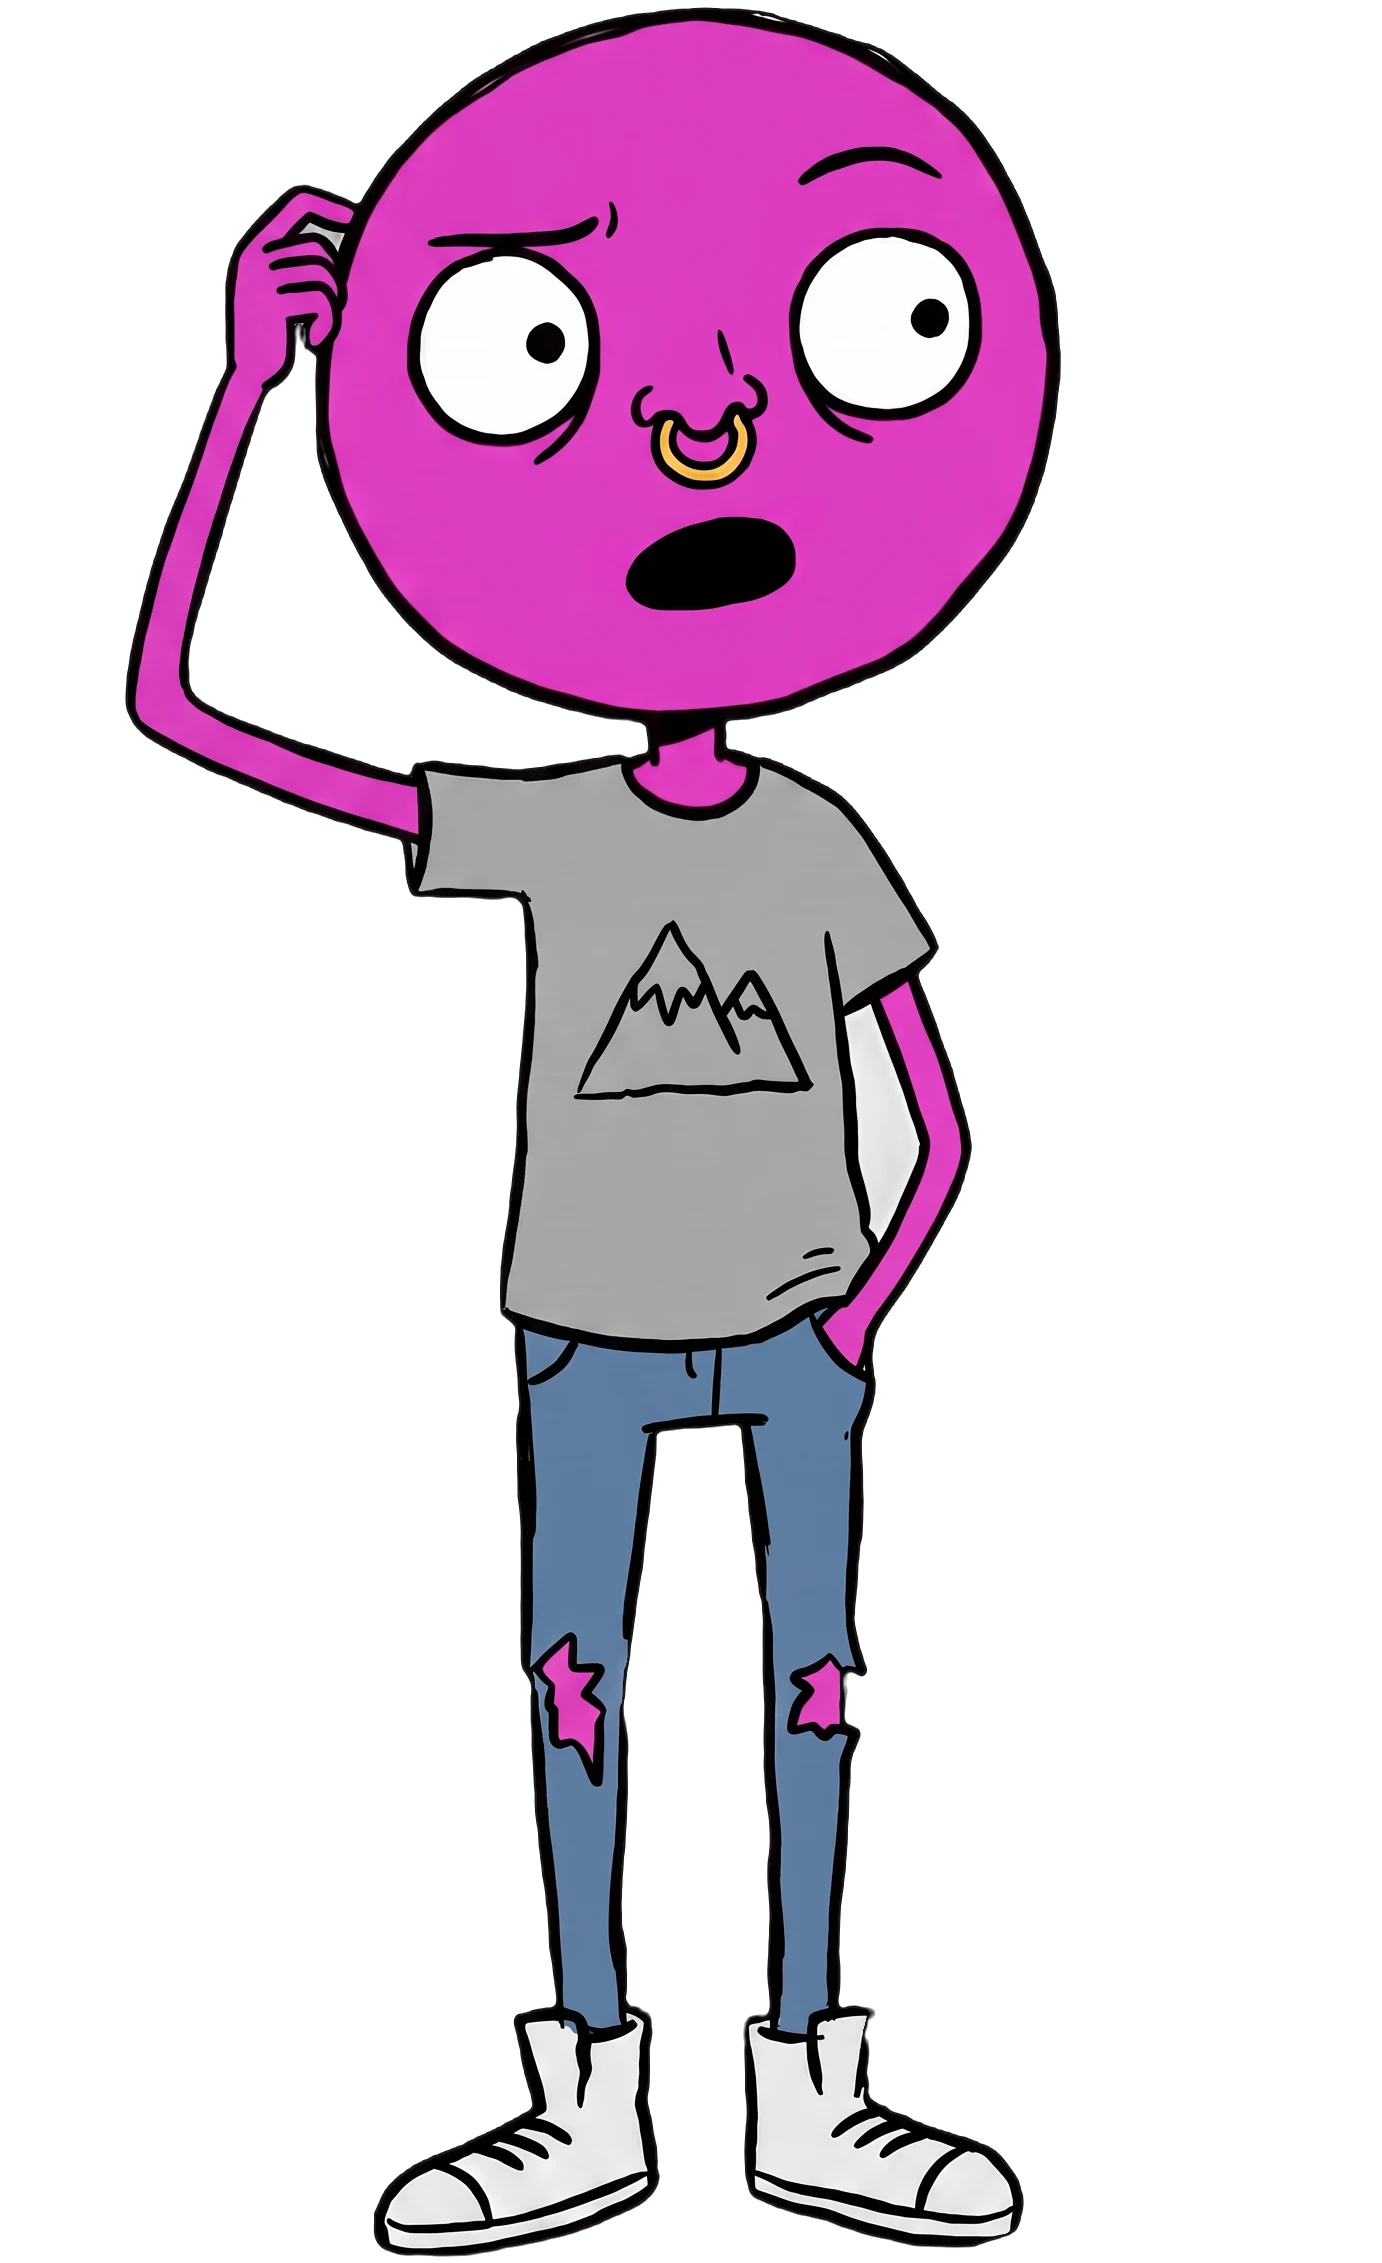
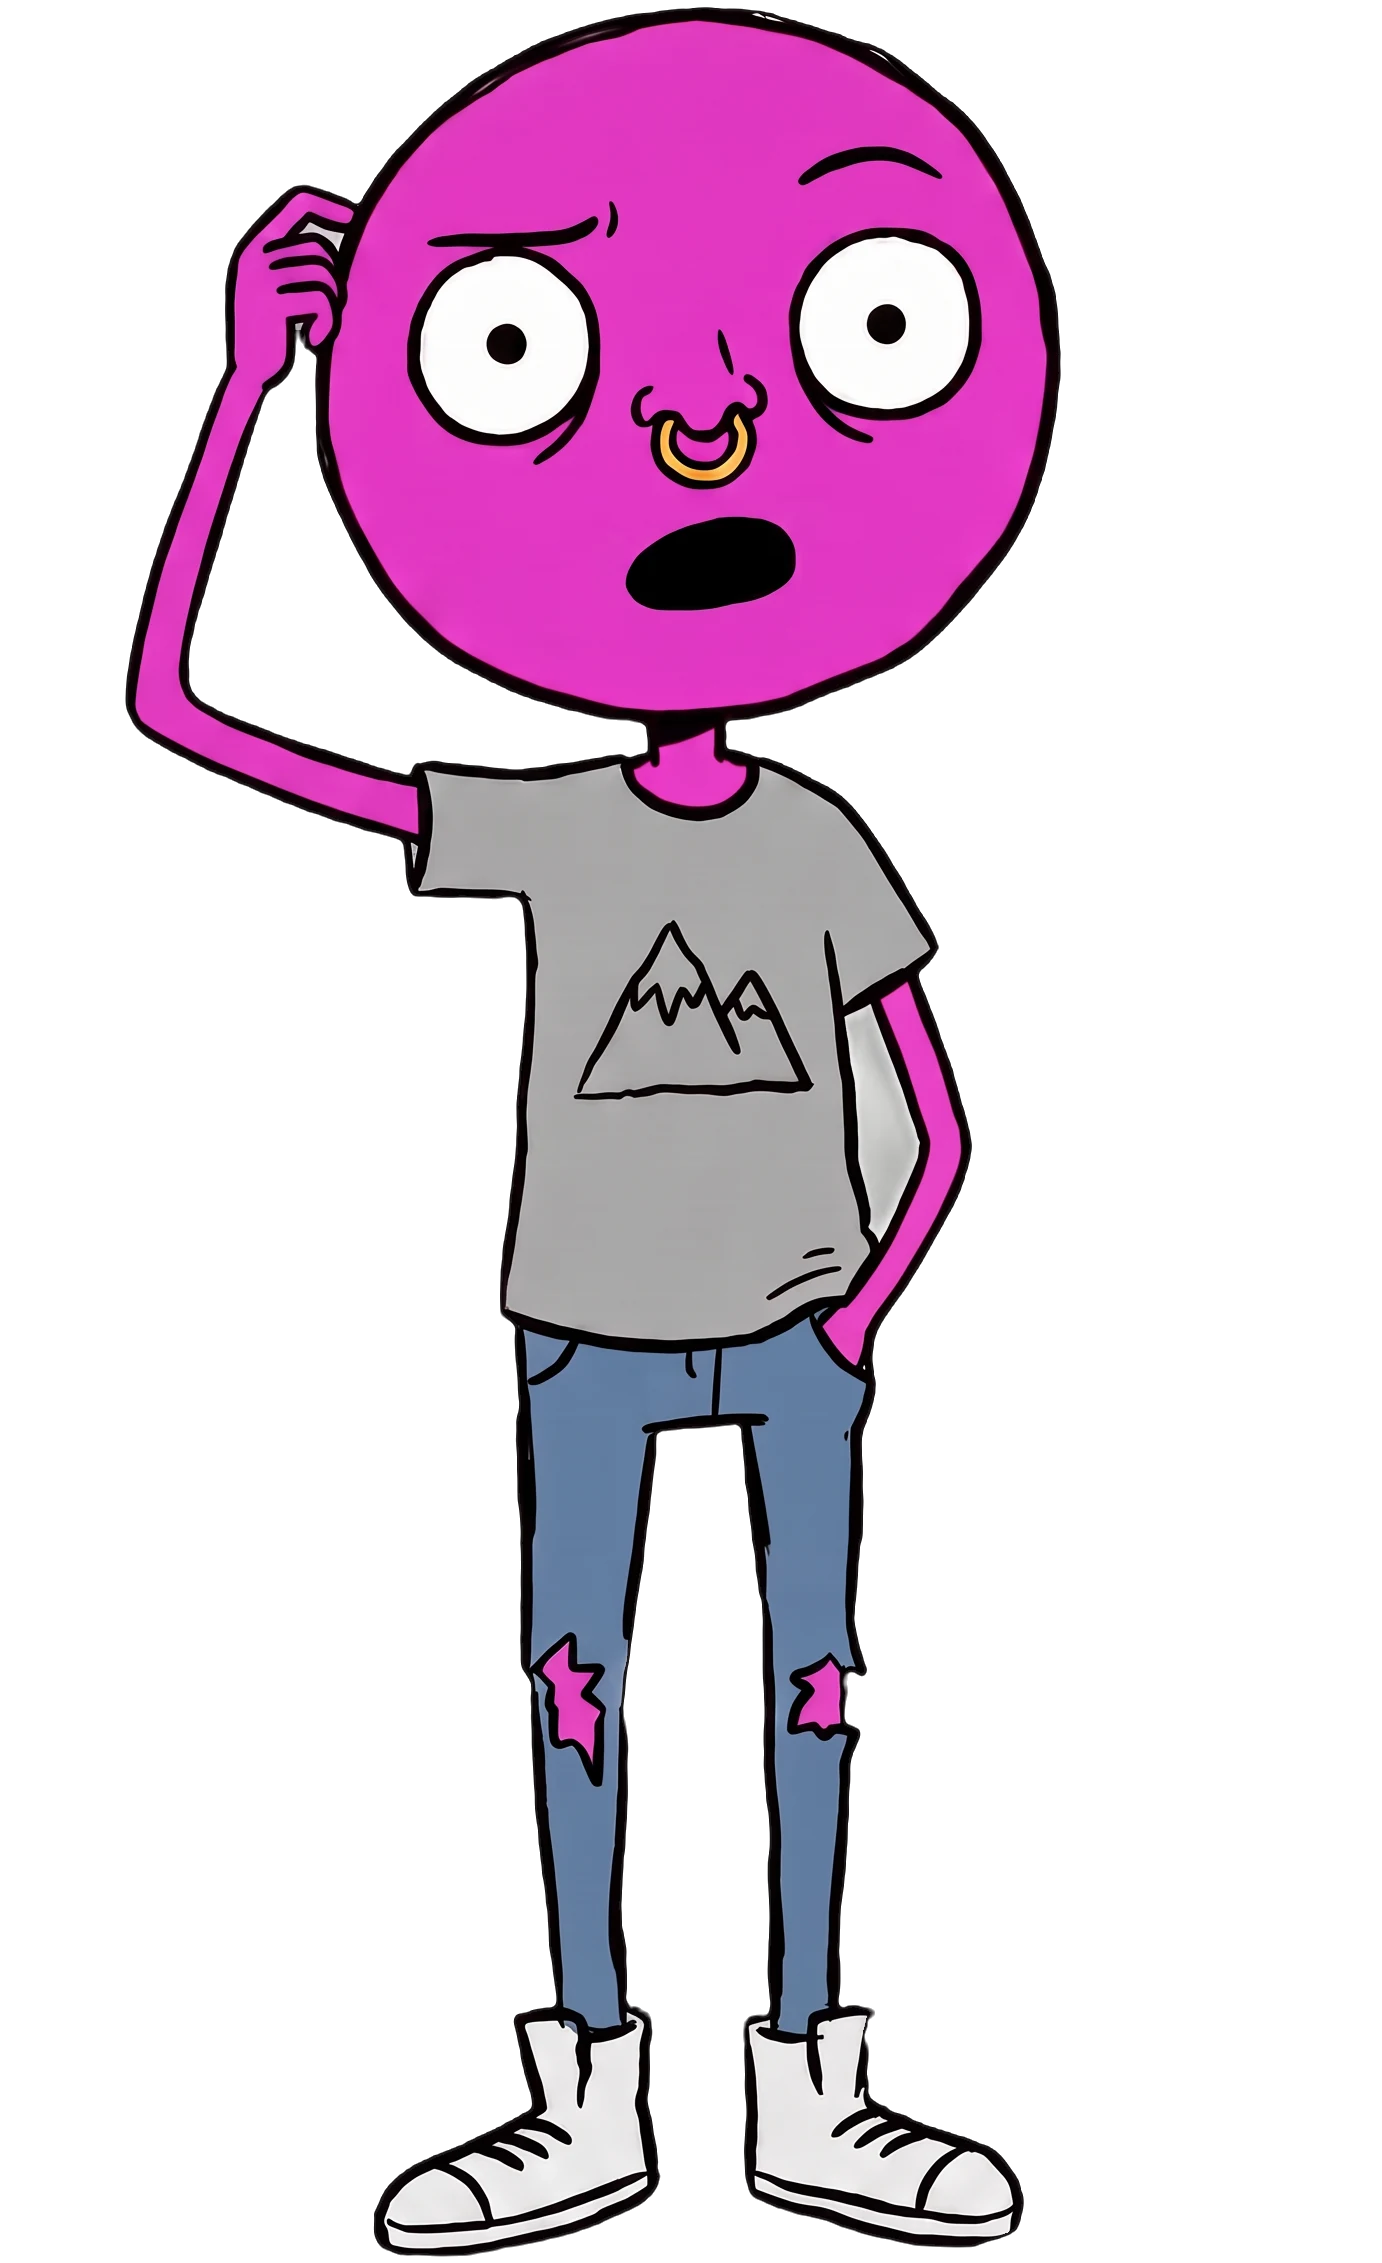
Mirada a cámara: «normal» usa los ojos al frente y los gestos con la mano en la cabeza miran a cámara
Claude-Session: https://claude.ai/code/session_01W1d2B3tJHY5s1jRup8PdJX

Changed region(s): [[0.5912, 0.4331, 0.6845, 0.5568], [0.3423, 0.1237, 0.4045, 0.1856], [0.6223, 0.1237, 0.6845, 0.1547]]

diff --git a/src/model/anim.ts b/src/model/anim.ts
@@ -140,7 +140,8 @@ export function poseAt(character: Character, tracks: Tracks, t: number): Pose {
       const brows = str(evalTrack(tracks['face:brows'], t, 'nada'))
       // Mirada: la que pida la animación; si no, la de la postura; si no, al frente (a cámara)
       const porDefecto = ex.ojosPorDefecto?.[cuerpo] ?? (ojos?.variants.frente ? 'frente' : 'nada')
-      if (ojos) variants.ojos = variants[raizX.id].endsWith('~c') ? 'cerrados' : ojos.variants[brows] ? brows : porDefecto
+      // «nada»/«neutral» = la mirada normal de la postura (al frente), nunca los ojos del dibujo original
+      if (ojos) variants.ojos = variants[raizX.id].endsWith('~c') ? 'cerrados' : brows !== 'nada' && ojos.variants[brows] ? brows : porDefecto
       if (variants[raizX.id].endsWith('~c')) variants[raizX.id] = cuerpo
     } else {
       if (boca) variants.boca = 'nada'
